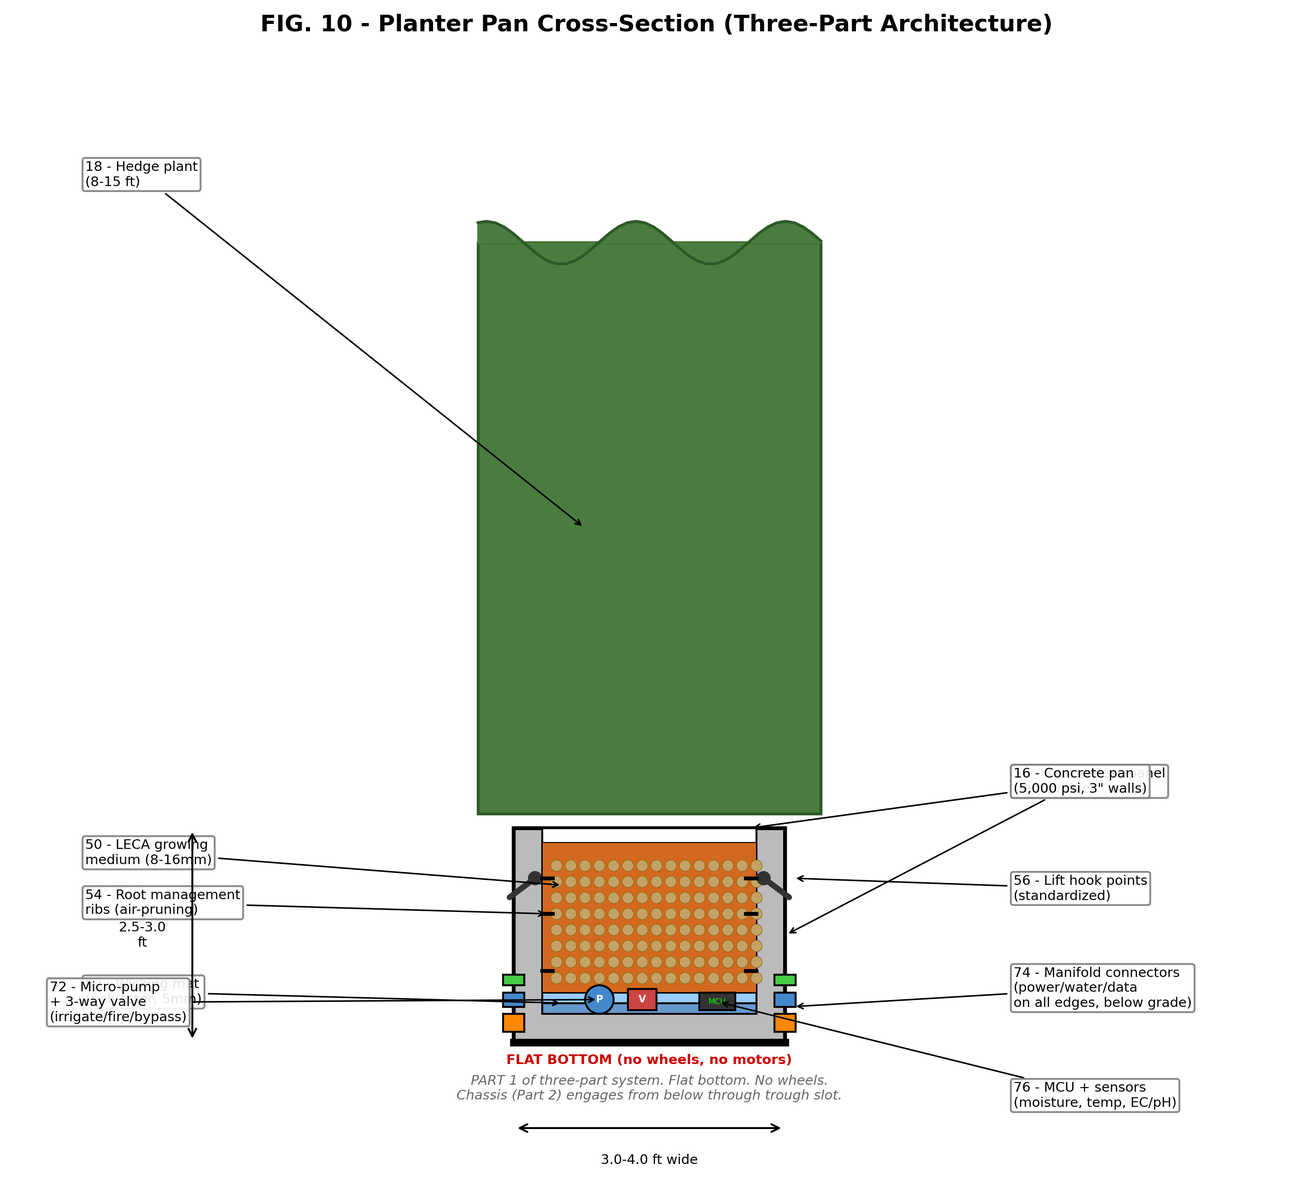
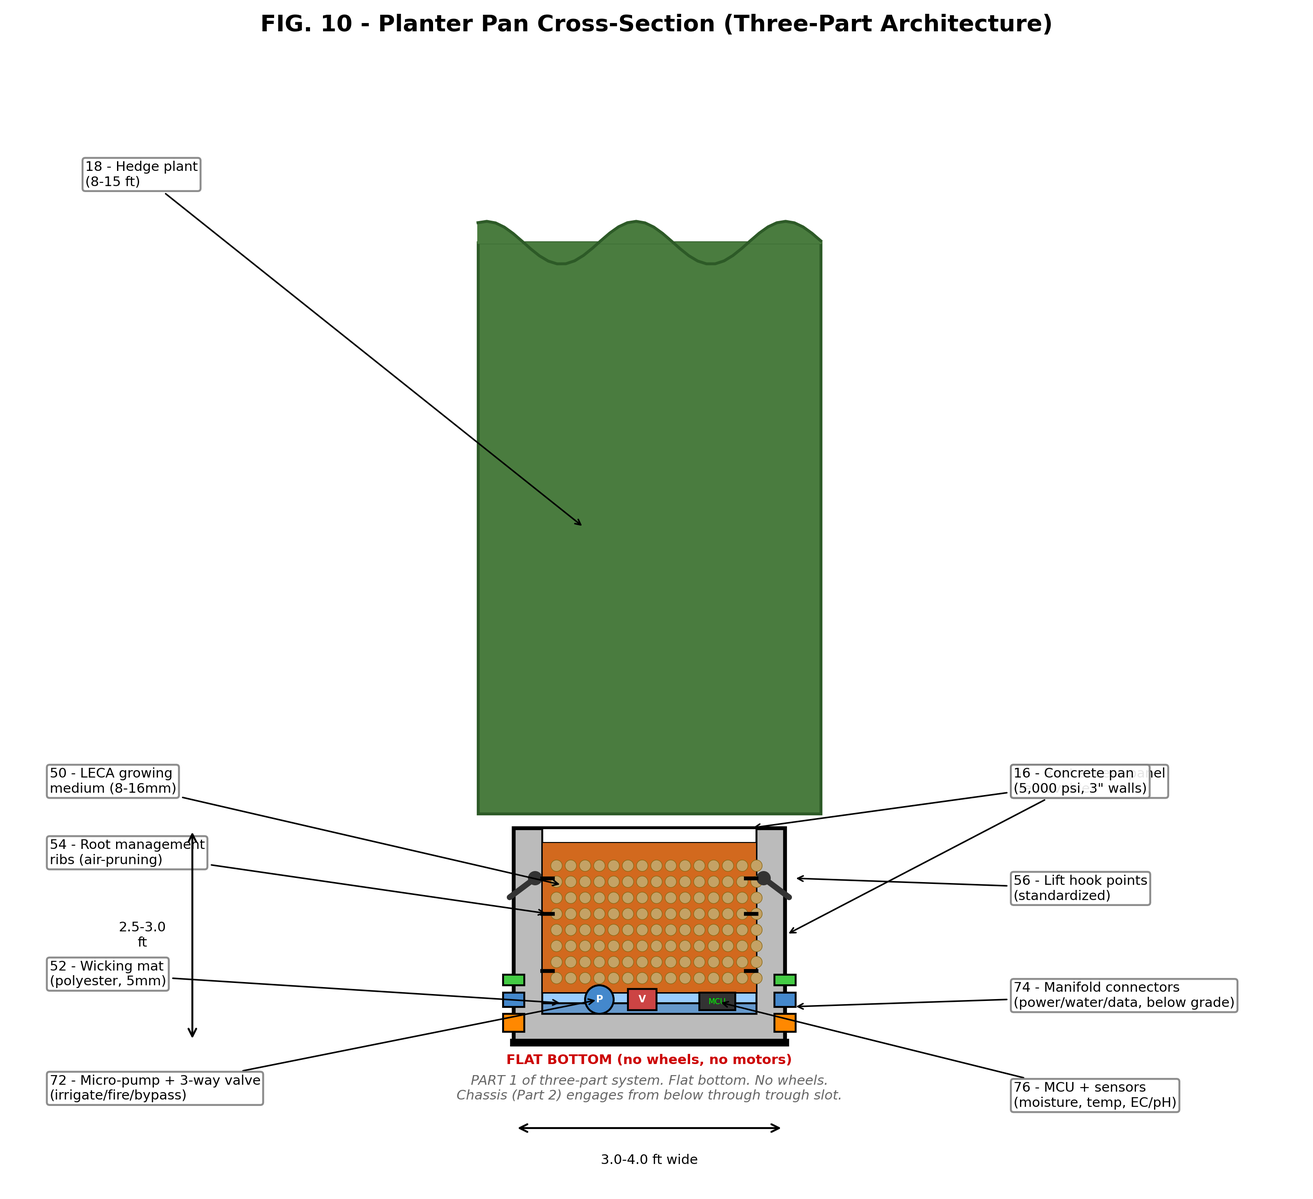
Add grid network with junctions, fix Fig 10 labels, claim 86
- S20B.5: Trough grid layout with perpendicular cross-channels at
  regular intervals (every 8-12 positions). Chassis/elevator change
  direction at cross-shaped junction intersections. Omnidirectional
  wheels enable 90-degree turns without body rotation.
- S20B.6: Standardized precast grid slab construction (200-400 sqft
  per section, placed side-by-side, grouted at joints)
- S20B.7: Software-defined zone designation (any region can serve
  any function via software config, no physical modification)
- Claims 83-84: grid navigation and junction turns
- Claim 85: precast slab construction
- Claim 86: INDEPENDENT software-defined configurable landscape
- Fig 10: fixed left-side label overlap (spread vertically)

Infrastructure cost analysis (NOT in patent, for business plan):
  ~864K/acre for trough grid, ~20/sqft
  20 acres = ~17.3M infrastructure investment

Changed region(s): [[0.0312, 0.6224, 0.3747, 0.9335], [0.6558, 0.8091, 0.9368, 0.8402], [0.3435, 0.7157, 0.3747, 0.7779]]

diff --git a/patent/provisional-application.html b/patent/provisional-application.html
@@ -611,6 +611,12 @@ The central controller manages the fleet of roller chassis and elevator boxes as
 </ul>
 <p>Compared to the monolithic design (600 units at $1,400-2,950 each = $840,000-1,770,000), the three-part architecture saves 45-68% on hardware cost while providing equivalent or superior capability.</p>
 <p>All cost figures in this section are illustrative estimates based on conceptual component selection and are subject to significant variation based on vendor pricing, manufacturing volume, material selection, and integration complexity. Actual system costs may be substantially higher or lower than stated ranges.</p>
+<p><strong>20B.5 Trough Grid Layout and Junction Network.</strong> The trough infrastructure is laid out as a regular grid of parallel channels with perpendicular cross-channels at regular intervals, forming a navigable network for roller chassis and elevator boxes.</p>
+<p>In the preferred embodiment, parallel trough channels are spaced at intervals matching the standard planter pan width (typically 3 to 4 feet on center), covering all configurable surface areas of the property. Perpendicular cross-channels intersect the parallel channels at regular intervals (typically every 8 to 12 pan positions, or approximately 24 to 48 feet), creating a grid pattern. At each intersection, the middle trough channels (in which roller chassis travel) and center trough channels (in which elevator boxes travel) form a cross-shaped opening that permits chassis and elevator units to change direction by 90 degrees.</p>
+<p>Roller chassis equipped with omnidirectional wheels (mecanum or holonomic drive) may change direction at any junction without rotating the chassis body, simply by altering wheel drive commands. Chassis with conventional steering may rotate in place at the junction before proceeding along the crossing channel.</p>
+<p>The grid layout enables any roller chassis or elevator box to reach any trough position on the property via the underground channel network, without requiring surface transit. This eliminates the need for advance maze planning at the infrastructure level: large areas of the property are simply covered with the standardized trough grid slab during initial construction, and the configuration of hedges, lawn, event surfaces, and other payloads is determined entirely in software by the central controller. The physical infrastructure is uniform and configuration-agnostic.</p>
+<p><strong>20B.6 Standardized Grid Slab Construction.</strong> The trough grid may be constructed as a series of standardized precast concrete slab sections, each containing a defined number of trough channels with pre-formed junction cross-channels. Slab sections are placed side by side on a prepared sub-grade, aligned, and grouted at joints. This modular slab approach enables rapid, low-cost installation of configurable surface infrastructure across large areas without custom formwork. A typical slab section may contain 4 to 8 parallel trough channels with one cross-channel, covering approximately 200 to 400 square feet per section.</p>
+<p><strong>20B.7 Surface Zone Designation.</strong> The central controller designates regions of the trough grid as specific surface zones (hedge maze, open lawn, event space, garden, parking, or reserve) through software configuration only. No physical modification of the trough infrastructure is required to change the designation of any zone. A region that is open lawn today may become a hedge maze section tomorrow, an event venue next week, and open lawn again the following day, using the same underlying trough grid. This software-defined zone architecture maximizes the return on infrastructure investment by enabling any square foot of prepared surface to serve any function.</p>
 <h3>21. Inter-Tile Connectivity Manifold</h3>
 <p><strong>21.1 Per-Edge Manifold.</strong> Each tile base carries an inter-tile connectivity manifold on each external edge (four on square tiles, six on hexagonal tiles). Each manifold carries, at minimum: (a) a 48V DC power coupling rated for at least 50 amps continuous, (b) a data coupling comprising both an LC-format singlemode or multimode fiber connector and a shielded gigabit Ethernet contact set, (c) a water supply quick-connect rated 30 to 50 psi, 3/4-inch nominal, and (d) a water return quick-connect of equal rating, such that any two adjacent tiles exchange power, data, and water across their shared edge without any external cabling.</p>
 <p><strong>21.2 Self-Aligning Geometry.</strong> Each manifold includes tapered mechanical guides (conical or pyramidal, with half-angle 15 to 30 degrees) and magnetic assist elements (neodymium or electromagnet) that draw the manifold faces into coarse alignment within a tolerance envelope of +/-0.5 inch lateral and +/-5 degrees rotational. Within this envelope, spring-loaded floating sub-plates carrying the individual connectors self-center to sub-millimeter precision as the tile seats, accommodating residual misalignment from the trough and from cumulative manufacturing tolerances.</p>
@@ -864,6 +870,10 @@ The central controller manages the fleet of roller chassis and elevator boxes as
 <p><strong>80.</strong> The system of claim 78, wherein the roller chassis also transports cover tiles that are seated in vacated outer trough positions immediately after pan removal, presenting a seamless surface that conceals the trough infrastructure and matches the surrounding landscape.</p>
 <p><strong>81.</strong> The system of claim 78, wherein the trough infrastructure comprises three nested channel levels cast as a single precast concrete section or assembled from stacked channel sections, the outer trough receiving the planter pan, the middle trough providing a travel network for roller chassis, and the center trough providing a travel network for elevator boxes.</p>
 <p><strong>82.</strong> (Independent) A three-part modular landscape tile transport system comprising: a plurality of passive planter pans each having a flat bottom, inter-tile connectivity manifolds on external edges, and no integrated drive mechanism; a fleet of self-propelled roller chassis each configured to travel in a middle trough channel beneath the planter pans, to engage a selected pan by raising a bearing surface, and to transport the pan to a destination; and a fleet of self-propelled elevator boxes each configured to travel in a center trough channel beneath the roller chassis and to lift a chassis with or without an engaged pan from the middle trough level to a higher level for surface transit or inter-terrace transfer; wherein the number of roller chassis and elevator boxes is substantially fewer than the number of planter pans, and wherein a central controller dispatches chassis and elevator boxes as shared fleet resources.</p>
+<p><strong>83.</strong> The system of claim 78, wherein the trough infrastructure is laid out as a grid of parallel channels with perpendicular cross-channels at regular intervals forming junctions, and wherein roller chassis and elevator boxes navigate the grid to reach any trough position on the property via the underground channel network without surface transit.</p>
+<p><strong>84.</strong> The system of claim 83, wherein each junction comprises a cross-shaped intersection of the middle and center trough channels, permitting roller chassis to change direction by 90 degrees using omnidirectional wheels without rotating the chassis body.</p>
+<p><strong>85.</strong> The system of claim 83, wherein the trough grid is constructed from standardized precast concrete slab sections, each containing a defined number of parallel trough channels with pre-formed junction cross-channels, the sections placed side by side on a prepared sub-grade and grouted at joints.</p>
+<p><strong>86.</strong> (Independent) A software-defined configurable landscape system comprising: a uniform grid of standardized recessed trough channels covering a surface area; a fleet of mobile roller chassis traveling within the trough channels; a plurality of interchangeable surface payload pans seatable in the trough channels; and a central controller that designates regions of the grid as specific surface zones through software configuration without physical modification of the trough infrastructure, such that any region may serve as hedge maze, open lawn, event space, garden, or any other designated function, and may change designation on any schedule.</p>
 <hr />
 <h2>ABSTRACT</h2>
 <p>A universal modular landscape infrastructure platform uses mobile tile bases mounted on motorized platforms within a standardized recessed channel grid. In the preferred embodiment, each platform employs a trough-and-elevator mechanism: a receiving trough set into the path surface receives the container flush with grade, and an elevator raises the container approximately 5 inches to expose a roller assembly for autonomous transit to a new trough position. The invention further comprises a universal trough grid extending across the entire property, enabling maze sections to be placed at any grid point and to migrate across the landscape seasonally or permanently. When trough sections are unoccupied, modular surface covers conceal the infrastructure, presenting as lawn, garden, or paved surfaces. The elevator mechanism is itself a modular, relocatable unit that can be installed in or removed from recessed bays at any trough position, making the locations of active transit junctions reconfigurable. Each standardized planter uses an inert lightweight growing medium with a wicking interface that draws water and nutrients from sub-channels integrated into the trough infrastructure, forming a closed-loop hydroponic irrigation system that reduces container weight 40-60% versus soil. The recirculating irrigation network is divided into independently isolatable hydraulic zones with pathogen detection, backflow prevention, and disinfection stages enabling automatic quarantine of affected planters or zones. Each planter includes a root-management assembly comprising air-pruning surfaces, guided-root ribs, or a replaceable inner root cartridge, with the control system assigning root-service intervals and autonomously routing planters to service bays. Adjacent planters include canopy-separation features and root-bridging prevention barriers. The system may be implemented at vehicular scale with vehicle-rated corridors, hedge walls of 8-12 feet, and grade-separated bridge/underpass crossings, creating a reconfigurable driving maze that presents a different route on every visit. Each platform includes a self-leveling suspension system compensating for outdoor surface irregularities, redundant fail-safe braking, wind-load stabilization, freeze-thaw protection, and degraded-mobility support for wheel or suspension failures. A central control system commands positions according to algorithmic scheduling, validates safety and egress compliance, and maintains a digital twin for simulation. The system includes a hospitality quiet-hours mode that sequences unit movement according to acoustic thresholds and guest-room proximity, a responder-navigation subsystem with addressable waypoints and incident-control logic for emergency medical extraction, and multiple simultaneously valid guest-route classes including wheelchair-optimized, stroller-optimized, low-sensory, and restroom-proximate routes. The system integrates with a guest navigation application providing progressive-reveal wayfinding, an emergency access mode for rapid egress, a section rotation system for operational flexibility, utility docking manifolds for automated irrigation and charging, plant-health monitoring with nursery rotation and seasonal conditioning, anti-aerial-observation features, and severe-weather management. The mobile container is generalized as a universal landscape tile with a standardized mobile base and an interchangeable surface payload selected from a tile family including lawn, hedge/planter, furniture, event surface, decorative, utility, lighting, audio/AV, bar/service, fire/water-feature, sensor/environmental, and emergency-response tiles. Each tile base carries an inter-tile connectivity manifold on each external edge, providing self-aligning 48V DC power couplings, fiber and Ethernet data couplings, and water supply and return quick-connects, enabling adjacent tiles to exchange power, data, and water without external cabling. Selected tiles include retractable pop-up utility access points with GFCI-protected 120V AC outlets, Ethernet, and USB-C jacks that deploy from flush-stowed positions beneath lawn or event surfaces. The aggregated inter-tile couplings form a self-healing meshed network for power, data, and water, with each tile hosting a managed network node, dual-band wireless access point, and power management unit that arbitrates multiple sources. An automated event orchestration service receives parametric event templates, solves geometric placement, allocates tiles from inventory, schedules transit, verifies inter-tile manifold connectivity, and produces signed readiness reports, enabling single-command transitions between stored configurations. The invention may be deployed as a layered platform comprising embedded infrastructure, mobile living barrier modules, utility docking interfaces, control software, and guest or operator applications, wherein any layer may be independently sold, licensed, or operated. The platform may be commercially implemented through recurring-service arrangements in which control software, predictive maintenance, fleet monitoring, certified replacement modules, and service robotics are supplied on a subscription or managed-service basis. In non-maze embodiments, the platform may define circulation, privacy, screening, queuing, crowd-separation, or security perimeters in airports, resorts, stadiums, campuses, and mixed-use developments. The invention enables a modular outdoor landscape infrastructure that autonomously reconfigures itself on programmable schedules, producing a functionally unlimited number of unique configurations while maintaining the aesthetic of a traditional hedge garden.</p>

diff --git a/patent/generate_drawings_v2.py b/patent/generate_drawings_v2.py
@@ -277,17 +277,17 @@ def fig10_planter_crosssection():
     ax.fill_between(x_wave, y_wave, hedge_bottom + hedge_h, color='#4a7c3f')
     ax.plot(x_wave, y_wave, color='#2d5a27', linewidth=1.5)
 
-    # Labels - spread out vertically to prevent overlap on right side
+    # Labels - spread out vertically on BOTH sides to prevent overlap
     labels = [
         ((-3, 12), (outer_left + 1, hedge_bottom + 4), '18 - Hedge plant\n(8-15 ft)'),
-        ((-3, depth - 0.5), (outer_left + wall_t + 0.3, depth - 0.8), '50 - LECA growing\nmedium (8-16mm)'),
-        ((-3, wall_t + 0.15), (outer_left + wall_t + 0.3, pan_bottom + wall_t + 0.15), '52 - Wicking mat\n(polyester, 5mm)'),
-        ((-3, 1.8), (outer_left + wall_t + 0.1, 1.8), '54 - Root management\nribs (air-pruning)'),
-        ((-3.5, pan_bottom + 0.3), (pump_x + 0.3, pump_y + 0.15), '72 - Micro-pump\n+ 3-way valve\n(irrigate/fire/bypass)'),
+        ((-3.5, depth + 0.5), (outer_left + wall_t + 0.3, depth - 0.8), '50 - LECA growing\nmedium (8-16mm)'),
+        ((-3.5, 2.5), (outer_left + wall_t + 0.1, 1.8), '54 - Root management\nribs (air-pruning)'),
+        ((-3.5, 0.8), (outer_left + wall_t + 0.3, pan_bottom + wall_t + 0.15), '52 - Wicking mat\n(polyester, 5mm)'),
+        ((-3.5, -0.8), (pump_x + 0.3, pump_y + 0.15), '72 - Micro-pump + 3-way valve\n(irrigate/fire/bypass)'),
         ((10, depth + 0.5), (outer_right - 0.5, depth), '58 - Root access panel\n(removable)'),
         ((10, 3.5), (outer_right, 1.5), '16 - Concrete pan\n(5,000 psi, 3" walls)'),
         ((10, 2.0), (outer_right + 0.1, 2.3), '56 - Lift hook points\n(standardized)'),
-        ((10, 0.5), (outer_right + 0.1, pan_bottom + 0.5), '74 - Manifold connectors\n(power/water/data\non all edges, below grade)'),
+        ((10, 0.5), (outer_right + 0.1, pan_bottom + 0.5), '74 - Manifold connectors\n(power/water/data, below grade)'),
         ((10, -0.9), (mcu_x + 0.25, pan_bottom + wall_t + 0.17), '76 - MCU + sensors\n(moisture, temp, EC/pH)'),
     ]
     for text_pos, target, label in labels:

diff --git a/patent/provisional-application.md b/patent/provisional-application.md
@@ -656,6 +656,18 @@ Compared to the monolithic design (600 units at $1,400-2,950 each = $840,000-1,7
 
 All cost figures in this section are illustrative estimates based on conceptual component selection and are subject to significant variation based on vendor pricing, manufacturing volume, material selection, and integration complexity. Actual system costs may be substantially higher or lower than stated ranges.
 
+**20B.5 Trough Grid Layout and Junction Network.** The trough infrastructure is laid out as a regular grid of parallel channels with perpendicular cross-channels at regular intervals, forming a navigable network for roller chassis and elevator boxes.
+
+In the preferred embodiment, parallel trough channels are spaced at intervals matching the standard planter pan width (typically 3 to 4 feet on center), covering all configurable surface areas of the property. Perpendicular cross-channels intersect the parallel channels at regular intervals (typically every 8 to 12 pan positions, or approximately 24 to 48 feet), creating a grid pattern. At each intersection, the middle trough channels (in which roller chassis travel) and center trough channels (in which elevator boxes travel) form a cross-shaped opening that permits chassis and elevator units to change direction by 90 degrees.
+
+Roller chassis equipped with omnidirectional wheels (mecanum or holonomic drive) may change direction at any junction without rotating the chassis body, simply by altering wheel drive commands. Chassis with conventional steering may rotate in place at the junction before proceeding along the crossing channel.
+
+The grid layout enables any roller chassis or elevator box to reach any trough position on the property via the underground channel network, without requiring surface transit. This eliminates the need for advance maze planning at the infrastructure level: large areas of the property are simply covered with the standardized trough grid slab during initial construction, and the configuration of hedges, lawn, event surfaces, and other payloads is determined entirely in software by the central controller. The physical infrastructure is uniform and configuration-agnostic.
+
+**20B.6 Standardized Grid Slab Construction.** The trough grid may be constructed as a series of standardized precast concrete slab sections, each containing a defined number of trough channels with pre-formed junction cross-channels. Slab sections are placed side by side on a prepared sub-grade, aligned, and grouted at joints. This modular slab approach enables rapid, low-cost installation of configurable surface infrastructure across large areas without custom formwork. A typical slab section may contain 4 to 8 parallel trough channels with one cross-channel, covering approximately 200 to 400 square feet per section.
+
+**20B.7 Surface Zone Designation.** The central controller designates regions of the trough grid as specific surface zones (hedge maze, open lawn, event space, garden, parking, or reserve) through software configuration only. No physical modification of the trough infrastructure is required to change the designation of any zone. A region that is open lawn today may become a hedge maze section tomorrow, an event venue next week, and open lawn again the following day, using the same underlying trough grid. This software-defined zone architecture maximizes the return on infrastructure investment by enabling any square foot of prepared surface to serve any function.
+
 ### 21. Inter-Tile Connectivity Manifold
 
 **21.1 Per-Edge Manifold.** Each tile base carries an inter-tile connectivity manifold on each external edge (four on square tiles, six on hexagonal tiles). Each manifold carries, at minimum: (a) a 48V DC power coupling rated for at least 50 amps continuous, (b) a data coupling comprising both an LC-format singlemode or multimode fiber connector and a shielded gigabit Ethernet contact set, (c) a water supply quick-connect rated 30 to 50 psi, 3/4-inch nominal, and (d) a water return quick-connect of equal rating, such that any two adjacent tiles exchange power, data, and water across their shared edge without any external cabling.
@@ -941,6 +953,14 @@ The following informal claims outline the scope of the invention. Formal claims 
 **81.** The system of claim 78, wherein the trough infrastructure comprises three nested channel levels cast as a single precast concrete section or assembled from stacked channel sections, the outer trough receiving the planter pan, the middle trough providing a travel network for roller chassis, and the center trough providing a travel network for elevator boxes.
 
 **82.** (Independent) A three-part modular landscape tile transport system comprising: a plurality of passive planter pans each having a flat bottom, inter-tile connectivity manifolds on external edges, and no integrated drive mechanism; a fleet of self-propelled roller chassis each configured to travel in a middle trough channel beneath the planter pans, to engage a selected pan by raising a bearing surface, and to transport the pan to a destination; and a fleet of self-propelled elevator boxes each configured to travel in a center trough channel beneath the roller chassis and to lift a chassis with or without an engaged pan from the middle trough level to a higher level for surface transit or inter-terrace transfer; wherein the number of roller chassis and elevator boxes is substantially fewer than the number of planter pans, and wherein a central controller dispatches chassis and elevator boxes as shared fleet resources.
+
+**83.** The system of claim 78, wherein the trough infrastructure is laid out as a grid of parallel channels with perpendicular cross-channels at regular intervals forming junctions, and wherein roller chassis and elevator boxes navigate the grid to reach any trough position on the property via the underground channel network without surface transit.
+
+**84.** The system of claim 83, wherein each junction comprises a cross-shaped intersection of the middle and center trough channels, permitting roller chassis to change direction by 90 degrees using omnidirectional wheels without rotating the chassis body.
+
+**85.** The system of claim 83, wherein the trough grid is constructed from standardized precast concrete slab sections, each containing a defined number of parallel trough channels with pre-formed junction cross-channels, the sections placed side by side on a prepared sub-grade and grouted at joints.
+
+**86.** (Independent) A software-defined configurable landscape system comprising: a uniform grid of standardized recessed trough channels covering a surface area; a fleet of mobile roller chassis traveling within the trough channels; a plurality of interchangeable surface payload pans seatable in the trough channels; and a central controller that designates regions of the grid as specific surface zones through software configuration without physical modification of the trough infrastructure, such that any region may serve as hedge maze, open lawn, event space, garden, or any other designated function, and may change designation on any schedule.
 
 ---
 
